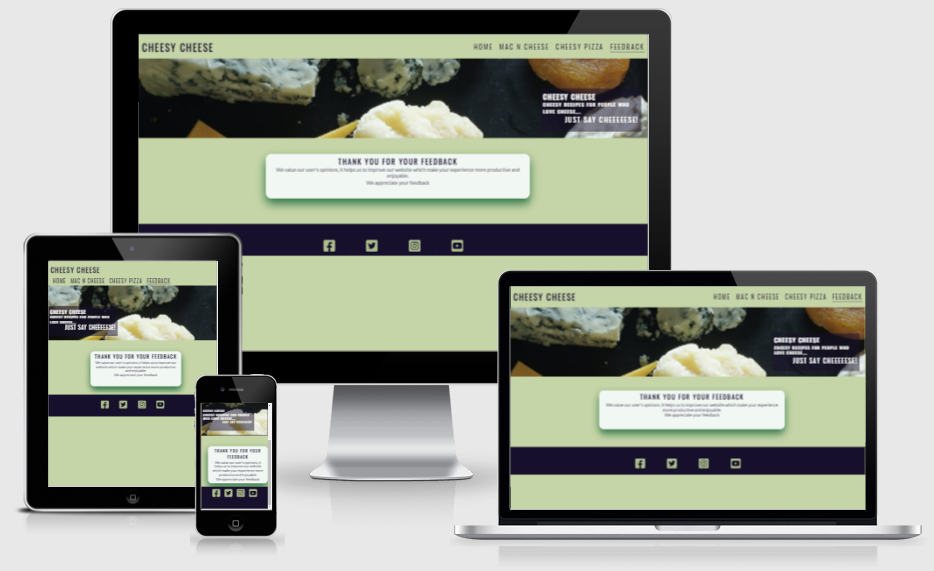
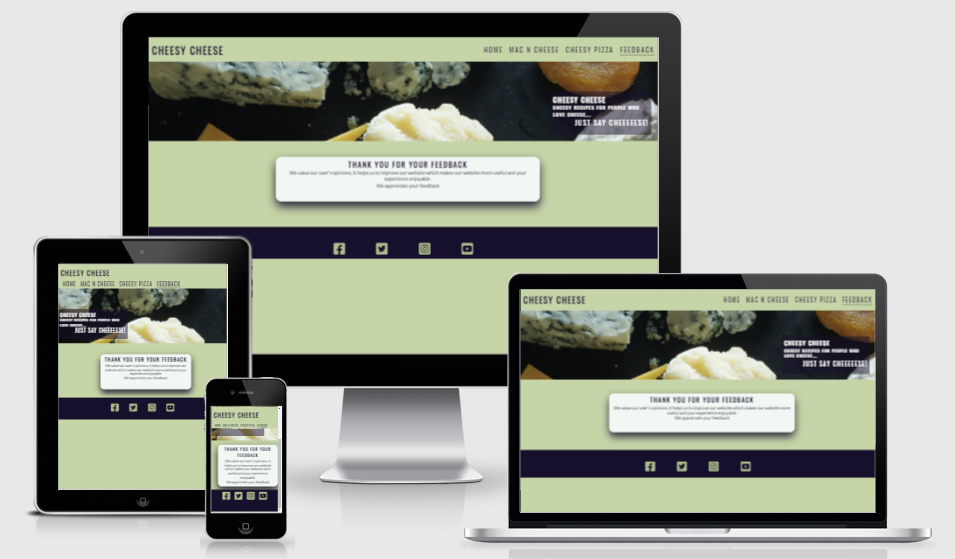
Add new screenshots for readme file

diff --git a/thankyou.html b/thankyou.html
@@ -55,7 +55,7 @@
         <div class="container">
             <h2>Thank You for your feedback</h2>
             <p>We value our user's opinions, it helps us to improve our website which makes our website more useful and
-                your experience enjoyable.</p>
+                your experience more enjoyable.</p>
             <p>We appreciate your feedback </p>
         </div>
     </section>

diff --git a/README.md b/README.md
@@ -117,7 +117,7 @@ Navigation bar elements are increase in size when the particular navbar element 
     
 These properties and looks of the header and navbar are consistant throughout the website.
 
-Nav bar hanging against the logo on the right hand side, but it chages its position for smaller screen sizes. But navigation links move under the logo for screen sizes 950px and smaller (for tablets). It further changes its position for screen sizes 800px and smaller (for smart phones/ tablets in portrait mode).
+Nav bar hanging against the logo on the right hand side, but it chages its position for smaller screen it moves under the logo for screen sizes 950px and smaller (for tablets). It reduces its font size for screen sizes 600px and smaller (for smart phones/ tablets in portrait mode).
 
 All pages of the website has a hero image with text overlay underneath the header and navbar area with cover text on it saying what is the website about, which changes its position on screen smaller than 950px.
 
@@ -169,6 +169,7 @@ It validates user's input. User's email address, username and password are requi
 ### **Thank You Page**
 
 This page was created to thank users for taking their time to fill up the feedback form and to give them confirmation that their feedback has been validly entered.
+The box height and width gains in size to accomodate the text on the smaller screens.
 
 <img src="docs/thankyou.png">
 
@@ -184,7 +185,9 @@ I used media query to make the website responsive to different screen sizes.
 <a></a>
 ### Tools
 
-I used gitpod to code my website and I deployed it on the github pages, which is easy to manage and update in future.
+I used gitpod IDE to code my website.
+
+I deployed it on the github pages, which is easy to manage and update in future.
 
 [Back to Top](#table-of-contents)
 
@@ -220,7 +223,7 @@ Clicking on submit button, if form is validated, brings user to the thankyou pag
 
 No errors were detected by W3C validatol for all html files.
 
-No issues were indicated by W3C CSS (Jigsaw) validator css file.
+No issues were indicated by W3C CSS (Jigsaw) validator for css file.
 
 I confirmed that colours and fonts are readable.
 
@@ -270,15 +273,13 @@ All recipes were copied from "bbcgoodfood.com"
 Image used as hero image is downloaded from "pixels.com"
 Rest of the images on the main page and recipe pages are downloaded from "istockphoto.com"
 
-Home icon and Social media icons were downloaded from "Font Awesome"
+All Social media icons were downloaded from "Font Awesome"
 
 <a></a>
 ### Other Sources
 
 Idea for the feedback form was taken from "CSS Sign Up Form Tutorial" from the "freecodecamp.org" with some modification.
 
-Text overlay idea was taken from love running website.
+Text overlay idea was taken from "love running" website.
 
 [Back to Top](#table-of-contents)
-
-
